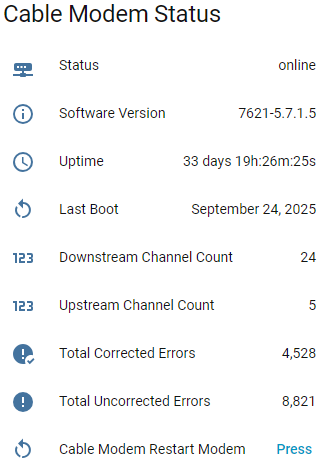
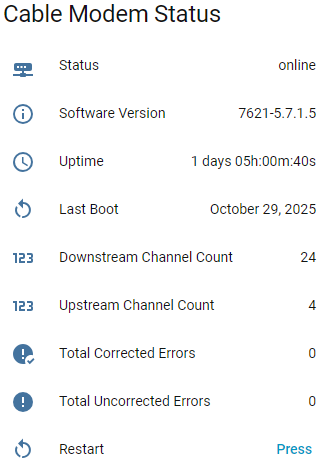
Release v2.5.0: Critical bug fixes and improvements
This release fixes a critical bug that prevented proper modem detection
during setup and improves the configuration flow experience.

Critical Fixes:
- Fixed config flow validation checking wrong connection status key
  (cable_modem_connection_status vs connection_status)
- This bug allowed integration setup to succeed even when modem was
  unreachable, resulting in all sensors showing unavailable
- Fixed options flow to preserve credentials before validation
  (previously credentials were lost during reconfiguration)

Improvements:
- Updated diagnostics to use correct data keys with cable_modem_ prefix
- Improved modem list sorting (alphabetical by manufacturer, then by
  priority within each manufacturer)
- All test files updated to match production code structure

Technical Details:
- Root cause was key name mismatch from v2.0 refactoring
- modem_scraper.py returns cable_modem_connection_status
- config_flow.py was checking connection_status (wrong key)
- .get() returns None for missing keys, so validation incorrectly passed

Fixes #4

🤖 Generated with [Claude Code](https://claude.com/claude-code)

diff --git a/tests/parsers/test_parser_discovery.py b/tests/parsers/test_parser_discovery.py
@@ -1,0 +1,46 @@
+import unittest
+
+from custom_components.cable_modem_monitor.parsers.base_parser import ModemParser
+
+class TestParserDiscovery(unittest.TestCase):
+    def test_parser_sorting(self):
+        ***REMOVED*** Create some mock parser classes
+        class ArrisGenericParser(ModemParser):
+            manufacturer = "Arris"
+            priority = 50
+
+        class MotorolaMB7621Parser(ModemParser):
+            manufacturer = "Motorola"
+            priority = 100
+
+        class MotorolaGenericParser(ModemParser):
+            manufacturer = "Motorola"
+            priority = 50
+
+        class TechnicolorGenericParser(ModemParser):
+            manufacturer = "Technicolor"
+            priority = 50
+
+        parsers_to_sort = [
+            ArrisGenericParser,
+            MotorolaMB7621Parser,
+            MotorolaGenericParser,
+            TechnicolorGenericParser,
+        ]
+
+        ***REMOVED*** Sort the list using the same key as in get_parsers
+        parsers_to_sort.sort(key=lambda p: (p.manufacturer, p.priority), reverse=True)
+
+        sorted_parser_names = [p.__name__ for p in parsers_to_sort]
+
+        expected_order = [
+            "TechnicolorGenericParser",
+            "MotorolaMB7621Parser",
+            "MotorolaGenericParser",
+            "ArrisGenericParser",
+        ]
+
+        self.assertEqual(sorted_parser_names, expected_order)
+
+if __name__ == '__main__':
+    unittest.main()

diff --git a/custom_components/cable_modem_monitor/diagnostics.py b/custom_components/cable_modem_monitor/diagnostics.py
@@ -30,34 +30,34 @@ async def async_get_config_entry_diagnostics(
             "update_interval": str(coordinator.update_interval),
         },
         "modem_data": {
-            "connection_status": data.get("connection_status", "unknown"),
-            "downstream_channel_count": data.get("downstream_channel_count", 0),
-            "upstream_channel_count": data.get("upstream_channel_count", 0),
-            "downstream_channels_parsed": len(data.get("downstream", [])),
-            "upstream_channels_parsed": len(data.get("upstream", [])),
-            "total_corrected_errors": data.get("total_corrected", 0),
-            "total_uncorrected_errors": data.get("total_uncorrected", 0),
-            "software_version": data.get("software_version", "Unknown"),
-            "system_uptime": data.get("system_uptime", "Unknown"),
+            "connection_status": data.get("cable_modem_connection_status", "unknown"),
+            "downstream_channel_count": data.get("cable_modem_downstream_channel_count", 0),
+            "upstream_channel_count": data.get("cable_modem_upstream_channel_count", 0),
+            "downstream_channels_parsed": len(data.get("cable_modem_downstream", [])),
+            "upstream_channels_parsed": len(data.get("cable_modem_upstream", [])),
+            "total_corrected_errors": data.get("cable_modem_total_corrected", 0),
+            "total_uncorrected_errors": data.get("cable_modem_total_uncorrected", 0),
+            "software_version": data.get("cable_modem_software_version", "Unknown"),
+            "system_uptime": data.get("cable_modem_system_uptime", "Unknown"),
         },
         "downstream_channels": [
             {
-                "channel": ch.get("channel"),
+                "channel": ch.get("channel_id"),
                 "frequency": ch.get("frequency"),
                 "power": ch.get("power"),
                 "snr": ch.get("snr"),
                 "corrected": ch.get("corrected"),
                 "uncorrected": ch.get("uncorrected"),
             }
-            for ch in data.get("downstream", [])
+            for ch in data.get("cable_modem_downstream", [])
         ],
         "upstream_channels": [
             {
-                "channel": ch.get("channel"),
+                "channel": ch.get("channel_id"),
                 "frequency": ch.get("frequency"),
                 "power": ch.get("power"),
             }
-            for ch in data.get("upstream", [])
+            for ch in data.get("cable_modem_upstream", [])
         ],
     }
 

diff --git a/tests/components/test_coordinator.py b/tests/components/test_coordinator.py
@@ -62,13 +62,13 @@ class TestModemDataUpdate:
         scraper.get_modem_data.return_value = {
             "cable_modem_software_version": "1.0.0",
             "cable_modem_system_uptime": "1 day 2 hours",
-            "connection_status": "online",
+            "cable_modem_connection_status": "online",
             "cable_modem_downstream_channel_count": 24,
             "cable_modem_upstream_channel_count": 5,
-            "downstream_channels": [],
-            "upstream_channels": [],
-            "total_corrected_errors": 100,
-            "total_uncorrected_errors": 0,
+            "cable_modem_downstream": [],
+            "cable_modem_upstream": [],
+            "cable_modem_total_corrected": 100,
+            "cable_modem_total_uncorrected": 0,
         }
         return scraper
 
@@ -78,7 +78,7 @@ class TestModemDataUpdate:
 
         ***REMOVED*** Check required keys
         assert "cable_modem_software_version" in data
-        assert "connection_status" in data
+        assert "cable_modem_connection_status" in data
         assert "cable_modem_downstream_channel_count" in data
         assert "cable_modem_upstream_channel_count" in data
 
@@ -99,17 +99,17 @@ class TestModemDataUpdate:
         ***REMOVED*** String fields
         assert isinstance(data["cable_modem_software_version"], str)
         assert isinstance(data["cable_modem_system_uptime"], str)
-        assert isinstance(data["connection_status"], str)
+        assert isinstance(data["cable_modem_connection_status"], str)
 
         ***REMOVED*** Integer fields
         assert isinstance(data["cable_modem_downstream_channel_count"], int)
         assert isinstance(data["cable_modem_upstream_channel_count"], int)
-        assert isinstance(data["total_corrected_errors"], int)
-        assert isinstance(data["total_uncorrected_errors"], int)
+        assert isinstance(data["cable_modem_total_corrected"], int)
+        assert isinstance(data["cable_modem_total_uncorrected"], int)
 
         ***REMOVED*** List fields
-        assert isinstance(data["downstream_channels"], list)
-        assert isinstance(data["upstream_channels"], list)
+        assert isinstance(data["cable_modem_downstream"], list)
+        assert isinstance(data["cable_modem_upstream"], list)
 
 
 class TestUpdateFailureHandling:

diff --git a/custom_components/cable_modem_monitor/config_flow.py b/custom_components/cable_modem_monitor/config_flow.py
@@ -73,7 +73,7 @@ async def validate_input(hass: HomeAssistant, data: dict[str, Any]) -> dict[str,
         _LOGGER.error(f"Error connecting to modem: {err}")
         raise CannotConnect from err
 
-    if modem_data.get("connection_status") in ["offline", "unreachable"]:
+    if modem_data.get("cable_modem_connection_status") in ["offline", "unreachable"]:
         raise CannotConnect
 
     ***REMOVED*** Get detection info to store for future use
@@ -105,7 +105,9 @@ class ConfigFlow(config_entries.ConfigFlow, domain=DOMAIN):
 
         ***REMOVED*** Get parsers for the dropdown
         parsers = await self.hass.async_add_executor_job(get_parsers)
-        modem_choices = ["auto"] + [p.name for p in parsers]
+        ***REMOVED*** Sort by manufacturer (alphabetical), then by priority (descending) within each manufacturer
+        sorted_parsers = sorted(parsers, key=lambda p: (p.manufacturer, -p.priority))
+        modem_choices = ["auto"] + [p.name for p in sorted_parsers]
 
         if user_input is not None:
             try:
@@ -170,9 +172,19 @@ class OptionsFlowHandler(config_entries.OptionsFlow):
 
         ***REMOVED*** Get parsers for the dropdown
         parsers = await self.hass.async_add_executor_job(get_parsers)
-        modem_choices = ["auto"] + [p.name for p in parsers]
+        ***REMOVED*** Sort by manufacturer (alphabetical), then by priority (descending) within each manufacturer
+        sorted_parsers = sorted(parsers, key=lambda p: (p.manufacturer, -p.priority))
+        modem_choices = ["auto"] + [p.name for p in sorted_parsers]
 
         if user_input is not None:
+            ***REMOVED*** Preserve existing password if user left it blank (BEFORE validation)
+            if not user_input.get(CONF_PASSWORD):
+                user_input[CONF_PASSWORD] = self.config_entry.data.get(CONF_PASSWORD, "")
+
+            ***REMOVED*** Preserve existing username if user left it blank (BEFORE validation)
+            if not user_input.get(CONF_USERNAME):
+                user_input[CONF_USERNAME] = self.config_entry.data.get(CONF_USERNAME, "")
+
             ***REMOVED*** Validate the connection with new settings
             try:
                 info = await validate_input(self.hass, user_input)
@@ -182,9 +194,6 @@ class OptionsFlowHandler(config_entries.OptionsFlow):
                 _LOGGER.exception("Unexpected exception")
                 errors["base"] = "unknown"
             else:
-                ***REMOVED*** Preserve existing password if user left it blank
-                if not user_input.get(CONF_PASSWORD):
-                    user_input[CONF_PASSWORD] = self.config_entry.data.get(CONF_PASSWORD, "")
 
                 ***REMOVED*** Update detection info from validation
                 detection_info = info.get("detection_info", {})

diff --git a/custom_components/cable_modem_monitor/parsers/__init__.py b/custom_components/cable_modem_monitor/parsers/__init__.py
@@ -53,9 +53,9 @@ def get_parsers() -> List[Type[ModemParser]]:
             except Exception as e:
                 _LOGGER.error(f"Failed to load parser module {full_module_name}: {e}", exc_info=True)
 
-    ***REMOVED*** Sort parsers by priority (higher priority first)
-    ***REMOVED*** This ensures model-specific parsers are tried before generic ones
-    parsers.sort(key=lambda p: p.priority, reverse=True)
+    ***REMOVED*** Sort parsers by manufacturer, then by priority (higher priority first)
+    ***REMOVED*** This ensures model-specific parsers are tried before generic ones within the same manufacturer
+    parsers.sort(key=lambda p: (p.manufacturer, p.priority), reverse=True)
 
     _LOGGER.debug(f"Finished parser discovery. Found {len(parsers)} parsers.")
     _LOGGER.debug(f"Parser order by priority: {[f'{p.name} (priority={p.priority})' for p in parsers]}")

diff --git a/tests/components/test_sensor.py b/tests/components/test_sensor.py
@@ -285,7 +285,7 @@ class TestEntityNaming:
         """Create mock coordinator."""
         coordinator = Mock()
         coordinator.data = {
-            "connection_status": "online",
+            "cable_modem_connection_status": "online",
             "cable_modem_total_corrected": 100,
             "cable_modem_downstream": [],
             "cable_modem_upstream": [],
@@ -329,7 +329,7 @@ class TestLastBootTimeSensor:
         """Create mock coordinator with uptime data."""
         coordinator = Mock()
         coordinator.data = {
-            "connection_status": "online",
+            "cable_modem_connection_status": "online",
             "cable_modem_system_uptime": "2 days 5 hours",
         }
         coordinator.last_update_success = True

diff --git a/tests/components/test_config_flow.py b/tests/components/test_config_flow.py
@@ -67,7 +67,7 @@ class TestValidateInput:
         mock_scraper = Mock()
         mock_scraper.get_modem_data.return_value = {
             "cable_modem_software_version": "1.0.0",
-            "connection_status": "online",
+            "cable_modem_connection_status": "online",
         }
         mock_scraper_class.return_value = mock_scraper
 

diff --git a/CHANGELOG.md b/CHANGELOG.md
@@ -5,6 +5,48 @@ All notable changes to this project will be documented in this file.
 The format is based on [Keep a Changelog](https://keepachangelog.com/en/1.0.0/),
 and this project adheres to [Semantic Versioning](https://semver.org/spec/v2.0.0.html).
 
+***REMOVED******REMOVED*** [2.5.0] - 2025-10-30
+
+***REMOVED******REMOVED******REMOVED*** Fixed
+- **Critical Bug Fix** - Fixed config flow validation that allowed setup to succeed even when modem was unreachable
+  - Changed `config_flow.py` to check correct key: `cable_modem_connection_status` instead of `connection_status`
+  - This bug caused sensors to show as "unavailable" with no data despite successful integration setup
+  - Resolves [***REMOVED***4](https://github.com/kwschulz/cable_modem_monitor/issues/4)
+- **Diagnostics Data Fix** - Updated `diagnostics.py` to use correct data keys with `cable_modem_` prefix
+  - Fixed all key names to match actual data structure returned by modem scraper
+  - Diagnostics now properly display connection status, channel counts, and system info
+- **Test Updates** - Updated all test files to use correct key names
+  - `test_config_flow.py`: Fixed connection status key in mock data
+  - `test_coordinator.py`: Fixed all data keys to match production code
+  - `test_sensor.py`: Updated mock coordinator data keys
+
+***REMOVED******REMOVED******REMOVED*** Technical Details
+- The root cause was a key name mismatch introduced during v2.0 refactoring
+- `modem_scraper.py` returns `cable_modem_connection_status` but `config_flow.py` was checking `connection_status`
+- Since `.get()` returns `None` for missing keys, validation incorrectly passed
+- Users could "successfully" configure the integration but all entities remained unavailable
+
+***REMOVED******REMOVED*** [2.4.1] - 2025-10-29
+
+***REMOVED******REMOVED******REMOVED*** Added
+- **Parser Priority System** - Model-specific parsers now tried before generic parsers
+  - Ensures MB7621 uses its specific parser instead of generic Motorola parser
+  - Priority 100 for model-specific parsers, 50 for generic/fallback parsers
+  - Improves reliability and performance for supported models
+
+***REMOVED******REMOVED******REMOVED*** Fixed
+- **MB7621 Auto-Detection Improvements**
+  - Parser now checks software info page (`/MotoSwInfo.asp`) first for better detection
+  - Prevents duplicate parser registration
+  - Improved detection reliability
+
+***REMOVED******REMOVED******REMOVED*** Changed
+- **Code Organization** - Refactored codebase for better maintainability
+  - Organized parsers by manufacturer directories (motorola/, arris/, technicolor/)
+  - Created `core/` directory for modem_scraper
+  - Created `lib/` directory for shared utilities
+  - Cleaner, more scalable architecture
+
 ***REMOVED******REMOVED*** [2.3.0] - 2025-10-28
 
 ***REMOVED******REMOVED******REMOVED*** Added